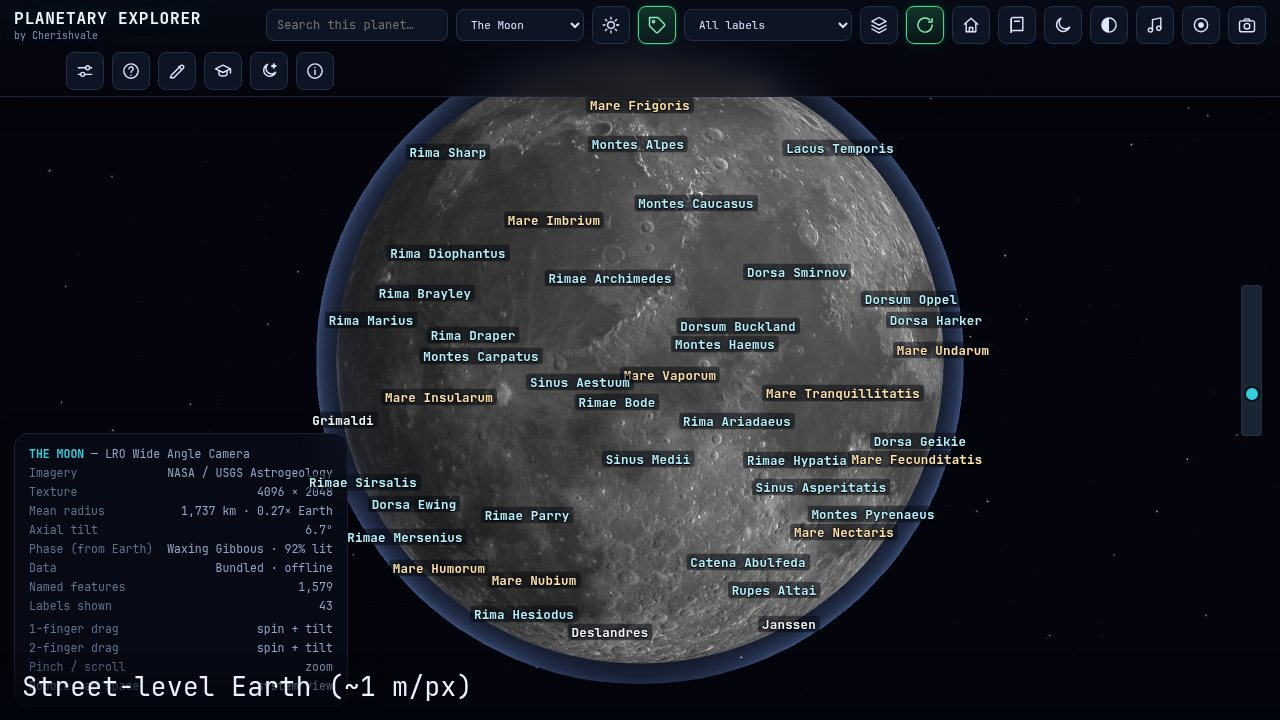
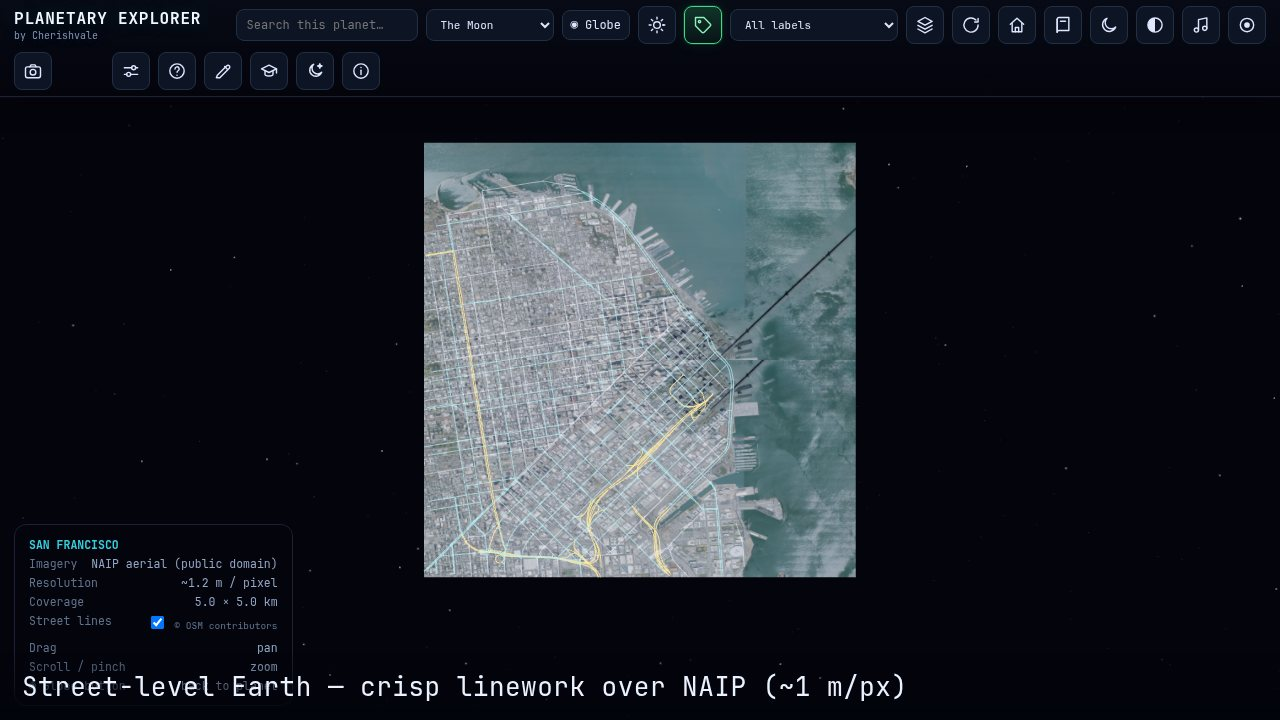
planetary-explorer: street linework copy + refreshed city shots

diff --git a/planetary-explorer.html b/planetary-explorer.html
@@ -140,7 +140,7 @@
   <div class="grid" style="grid-template-columns:repeat(auto-fit,minmax(300px,1fr))">
     <a class="shot" href="assets/screens/system.jpg"><img src="assets/screens/system.jpg" alt="Live Solar-System map with orbits and comets" loading="lazy"><span><b>The live orbit map.</b> Every planet where it really is, for any date from 1800 to 2050 — set a date, press play, watch the system turn. Track named comets, switch the orbit drawing style, or flip to true scale to feel how empty space really is.</span></a>
     <a class="shot" href="assets/screens/earth-atlas.jpg"><img src="assets/screens/earth-atlas.jpg" alt="Earth with 244,625 place labels" loading="lazy"><span><b>244,625 place names.</b> Earth carries a full gazetteer that reveals itself as you descend — countries, states and provinces, capitals, cities, peaks, seas, lakes, rivers. Filter by category, or search and fly to anywhere.</span></a>
-    <a class="shot" href="assets/screens/city-streets.jpg"><img src="assets/screens/city-streets.jpg" alt="Street-level map of New York" loading="lazy"><span><b>Street-level Earth.</b> Open any of seven metro areas as a flat, pannable map at about 1.2 metres per pixel, now stored as tile pyramids so streets stay sharp as you zoom — individual streets and buildings, from public-domain aerial imagery.</span></a>
+    <a class="shot" href="assets/screens/city-streets.jpg"><img src="assets/screens/city-streets.jpg" alt="Street-level map of New York" loading="lazy"><span><b>Street-level Earth.</b> Open any of seven metro areas as a flat, pannable map at about 1.2 metres per pixel, with crisp OpenStreetMap road lines overlaid so streets stay sharp at any zoom — individual streets and buildings, from public-domain aerial imagery (lines © OpenStreetMap contributors, ODbL).</span></a>
   </div>
 </div>
 
@@ -272,7 +272,7 @@
     <div class="card"><b>Live orbit map</b><p>A true Solar-System map with planets on their real orbits for any date from 1800 to 2050. Play the clock, jump to presets, and follow named comets including Halley, Hale-Bopp, NEOWISE and the interstellar visitors ʻOumuamua, Borisov and 3I/ATLAS.</p></div>
     <div class="card"><b>244,625 place names</b><p>Earth's full gazetteer — countries, states, capitals, cities and physical features — revealed in tiers as you zoom. Filter by category or search any name and fly to it.</p></div>
     <div class="card"><b>Tiled deep detail</b><p>Earth gains a high-resolution layer (~1.6 km per pixel) blended in as you approach, held in memory one tile at a time.</p></div>
-    <div class="card"><b>Street-level Earth</b><p>Seven metro areas open as flat, pannable street maps at ~1.2 m per pixel, from public-domain aerial imagery — close enough to pick out individual buildings.</p></div>
+    <div class="card"><b>Street-level Earth</b><p>Seven metro areas open as flat, pannable street maps at ~1.2 m per pixel, from public-domain aerial imagery — close enough to pick out individual buildings. Crisp OpenStreetMap road lines stay sharp at any zoom.</p></div>
     <div class="card"><b>Earth layers</b><p>One 🖼 Layers panel gathers the real data overlays — a NASA total-column <b>ozone</b> map with a Dobson-Unit legend, and <b>geology</b> (plate boundaries, major faults and 1,571 volcanoes), plus a label backdrop for readability. All public-domain data, all offline.</p></div>
     <div class="card"><b>Weather-teaching layer</b><p>An optional classroom schematic of the semi-permanent <b>highs and lows</b> — idealized isobars and circulating surface winds, with the Coriolis sense made explicit. Clearly labelled a teaching model, not live data.</p></div>
     <div class="card"><b>Exoplanets</b><p>Over 100 notable worlds from other star systems, curated from the <b>NASA Exoplanet Archive</b> — Proxima b, the TRAPPIST-1 family, the hottest and puffiest planets and the historic firsts. Browse them in the Codex and search by planet or host-star name.</p></div>
